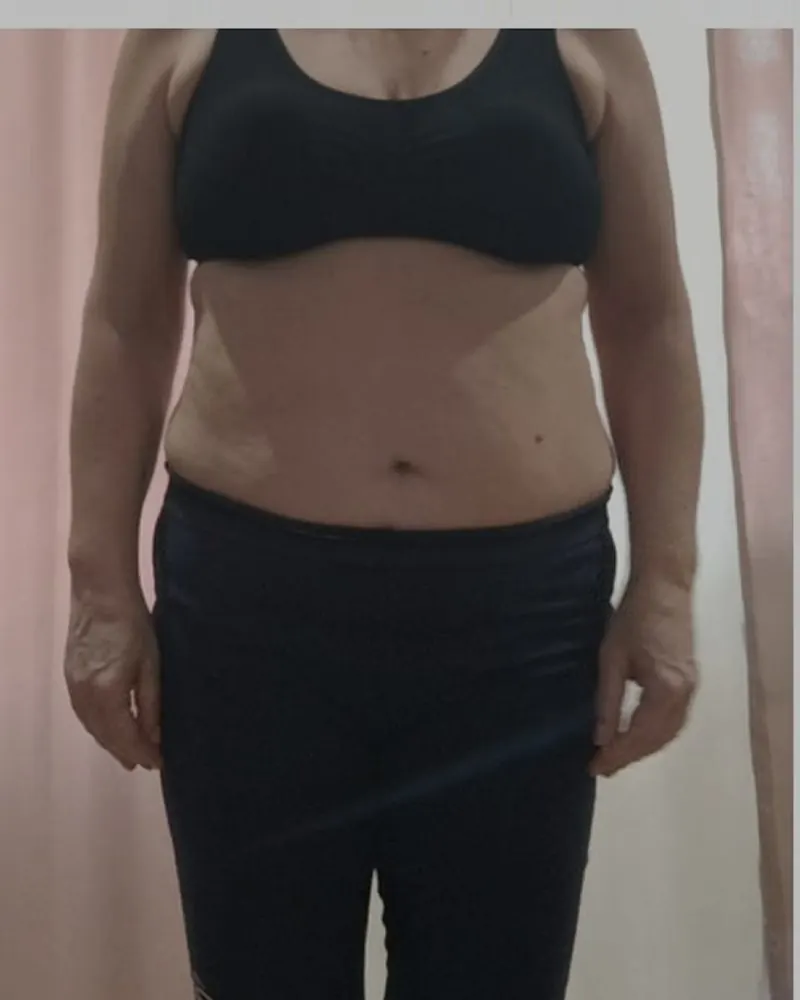
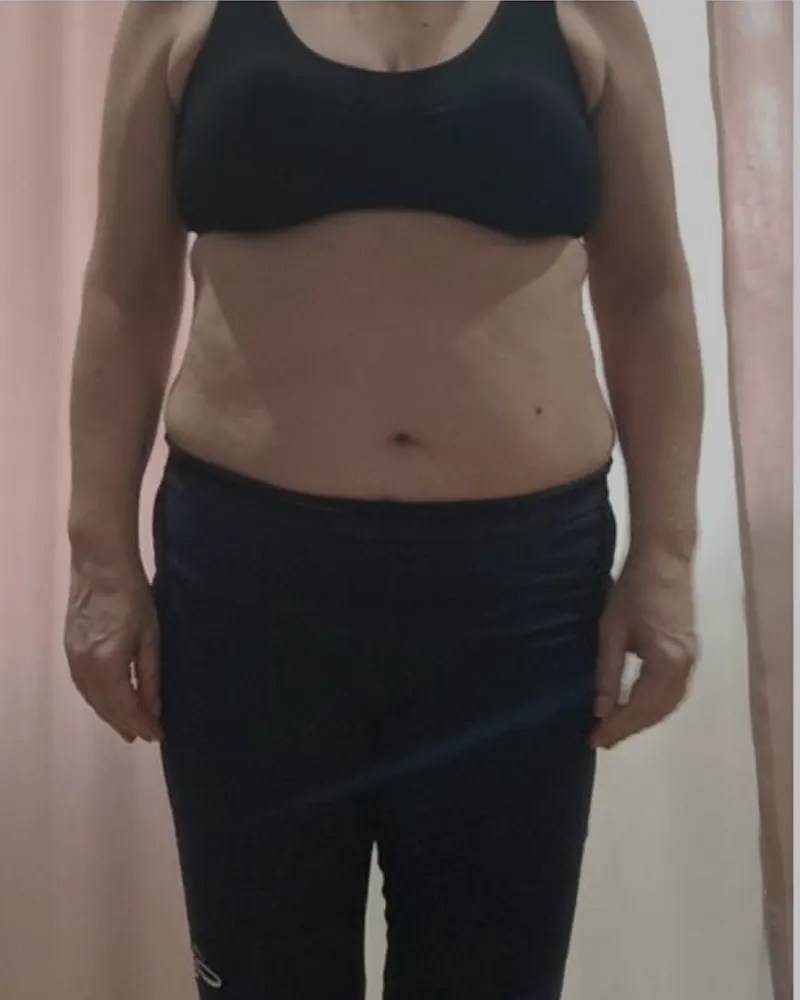
Кейсы: карточки «до | после» рядом, ракурс на кадрах, «хочу так же»
- два кадра рядом вместо переключателя; ракурс (анфас/профиль/спина) меняет оба
- в шапке карточки имя и цифра в ряд, срок отдельной строкой
- на ПК две карточки в ряд, на мобилке одна с подглядыванием следующей
- внизу карточки «хочу так же» (WhatsApp), «читать историю» только если текст обрезан
- кадры Елены (анфас, профиль) пересобраны: убрана светлая полоса сверху у «до»

Claude-Session: https://claude.ai/code/session_01PWznzMav5XfXqMcSUMKv98

diff --git a/cases.html b/cases.html
@@ -51,119 +51,95 @@
       </div>
     </div>
     <div class="cs-track" id="cs-track" role="region" aria-label="Истории клиентов, лента" tabindex="0">
-      <article class="cs-card" data-id="c" data-view="after" data-angle="front">
+      <article class="cs-card" data-id="c" data-angle="front">
         <div class="cs-ph">
-          <img class="cs-ph__b" src="assets/img/cases/c_front_b.webp" width="800" height="1000" alt="Елена, 56 лет, до" loading="lazy" decoding="async" draggable="false">
-          <img class="cs-ph__a" src="assets/img/cases/c_front_a.webp" width="800" height="1000" alt="Елена, 56 лет, после" loading="lazy" decoding="async" draggable="false">
-          <div class="cs-view" role="group" aria-label="Показать до или после">
-            <button class="cs-vbtn" type="button" data-view="before" aria-pressed="false">до</button>
-            <button class="cs-vbtn" type="button" data-view="after" aria-pressed="true">после</button>
-          </div>
+          <figure class="cs-fr"><img class="cs-img-b" src="assets/img/cases/c_front_b.webp" width="800" height="1000" alt="Елена, 56 лет, до" loading="lazy" decoding="async" draggable="false"><figcaption class="cs-tag">до</figcaption></figure>
+          <figure class="cs-fr"><img class="cs-img-a" src="assets/img/cases/c_front_a.webp" width="800" height="1000" alt="Елена, 56 лет, после" loading="lazy" decoding="async" draggable="false"><figcaption class="cs-tag cs-tag--a">после</figcaption></figure>
+          <div class="cs-angles" role="group" aria-label="Ракурс"><button class="cs-ang" type="button" data-angle="front" aria-pressed="true">анфас</button><button class="cs-ang" type="button" data-angle="side" aria-pressed="false">профиль</button><button class="cs-ang" type="button" data-angle="back" aria-pressed="false">спина</button></div>
         </div>
         <div class="cs-body">
-          <div class="cs-angles" role="group" aria-label="Ракурс"><button class="cs-ang" type="button" data-angle="front" aria-pressed="true">анфас</button><button class="cs-ang" type="button" data-angle="side" aria-pressed="false">профиль</button><button class="cs-ang" type="button" data-angle="back" aria-pressed="false">спина</button></div>
-          <div>
+          <div class="cs-top">
             <h3 class="cs-name">Елена, 56 лет</h3>
             <p class="cs-kpi display">−13,1 кг</p>
-            <p class="cs-meta">3 месяца работы · −13 см в талии</p>
           </div>
+          <p class="cs-meta">3 месяца работы · −13 см в талии</p>
           <div class="cs-text">
             <div><p class="cs-lab cs-lab--a">точка А</p><p class="cs-p is-clamp">Сахарный диабет, постоянно высокий уровень глюкозы, лишний вес и большой живот, алкоголь по выходным.</p></div>
             <div><p class="cs-lab cs-lab--b">точка Б</p><p class="cs-p is-clamp">Отказ от алкоголя, −13 см в талии, за 3 месяца удалось сбросить 13,1 кг без спорта, нормализовали уровень сахара.</p></div>
           </div>
-          <div class="cs-more"><button class="cs-tog" type="button" aria-expanded="false">читать полностью</button></div>
+        <div class="cs-more"><button class="cs-tog" type="button" aria-expanded="false">читать историю</button><a class="cs-want" href="#" data-wa="Здравствуйте, Ника! Хочу такой же результат, как у Елены.">хочу так же <svg aria-hidden="true" width="14" height="14" viewBox="0 0 20 20" fill="none" stroke="currentColor" stroke-width="1.8" stroke-linecap="round" stroke-linejoin="round"><path d="M6 14 14 6M7 6h7v7"/></svg></a></div>
         </div>
       </article>
-      <article class="cs-card" data-id="b" data-view="after" data-angle="front">
+      <article class="cs-card" data-id="b" data-angle="front">
         <div class="cs-ph">
-          <img class="cs-ph__b" src="assets/img/cases/b_front_b.webp" width="800" height="1000" alt="Екатерина, 40 лет, до" loading="lazy" decoding="async" draggable="false">
-          <img class="cs-ph__a" src="assets/img/cases/b_front_a.webp" width="800" height="1000" alt="Екатерина, 40 лет, после" loading="lazy" decoding="async" draggable="false">
-          <div class="cs-view" role="group" aria-label="Показать до или после">
-            <button class="cs-vbtn" type="button" data-view="before" aria-pressed="false">до</button>
-            <button class="cs-vbtn" type="button" data-view="after" aria-pressed="true">после</button>
-          </div>
+          <figure class="cs-fr"><img class="cs-img-b" src="assets/img/cases/b_front_b.webp" width="800" height="1000" alt="Екатерина, 40 лет, до" loading="lazy" decoding="async" draggable="false"><figcaption class="cs-tag">до</figcaption></figure>
+          <figure class="cs-fr"><img class="cs-img-a" src="assets/img/cases/b_front_a.webp" width="800" height="1000" alt="Екатерина, 40 лет, после" loading="lazy" decoding="async" draggable="false"><figcaption class="cs-tag cs-tag--a">после</figcaption></figure>
+          <div class="cs-angles" role="group" aria-label="Ракурс"><button class="cs-ang" type="button" data-angle="front" aria-pressed="true">анфас</button><button class="cs-ang" type="button" data-angle="side" aria-pressed="false">профиль</button></div>
         </div>
         <div class="cs-body">
-          <div class="cs-angles" role="group" aria-label="Ракурс"><button class="cs-ang" type="button" data-angle="front" aria-pressed="true">анфас</button><button class="cs-ang" type="button" data-angle="side" aria-pressed="false">профиль</button></div>
-          <div>
+          <div class="cs-top">
             <h3 class="cs-name">Екатерина, 40 лет</h3>
             <p class="cs-kpi display">−8,8 кг</p>
-            <p class="cs-meta">3 месяца работы · +1,7 кг мышц · −6 см в талии</p>
           </div>
+          <p class="cs-meta">3 месяца работы · +1,7 кг мышц · −6 см в талии</p>
           <div class="cs-text">
             <div><p class="cs-lab cs-lab--a">точка А</p><p class="cs-p is-clamp">Ходила годами в зал, но так и не видела заветного результата, хотела похудеть именно за счёт жира, максимально сохранить мышечную массу.</p></div>
             <div><p class="cs-lab cs-lab--b">точка Б</p><p class="cs-p is-clamp">Через 3 месяца питания и регулярных тренировок скинули 8,8 кг, набрали 1,7 кг мышц, обновили гардероб и избавились от 6 см талии.</p></div>
           </div>
-          <div class="cs-more"><button class="cs-tog" type="button" aria-expanded="false">читать полностью</button></div>
+        <div class="cs-more"><button class="cs-tog" type="button" aria-expanded="false">читать историю</button><a class="cs-want" href="#" data-wa="Здравствуйте, Ника! Хочу такой же результат, как у Екатерины.">хочу так же <svg aria-hidden="true" width="14" height="14" viewBox="0 0 20 20" fill="none" stroke="currentColor" stroke-width="1.8" stroke-linecap="round" stroke-linejoin="round"><path d="M6 14 14 6M7 6h7v7"/></svg></a></div>
         </div>
       </article>
-      <article class="cs-card" data-id="e" data-view="after" data-angle="one">
+      <article class="cs-card" data-id="e" data-angle="one">
         <div class="cs-ph">
-          <img class="cs-ph__b" src="assets/img/cases/e_one_b.webp" width="800" height="1000" alt="Дарья, 24 года, до" loading="lazy" decoding="async" draggable="false">
-          <img class="cs-ph__a" src="assets/img/cases/e_one_a.webp" width="800" height="1000" alt="Дарья, 24 года, после" loading="lazy" decoding="async" draggable="false">
-          <div class="cs-view" role="group" aria-label="Показать до или после">
-            <button class="cs-vbtn" type="button" data-view="before" aria-pressed="false">до</button>
-            <button class="cs-vbtn" type="button" data-view="after" aria-pressed="true">после</button>
-          </div>
+          <figure class="cs-fr"><img class="cs-img-b" src="assets/img/cases/e_one_b.webp" width="800" height="1000" alt="Дарья, 24 года, до" loading="lazy" decoding="async" draggable="false"><figcaption class="cs-tag">до</figcaption></figure>
+          <figure class="cs-fr"><img class="cs-img-a" src="assets/img/cases/e_one_a.webp" width="800" height="1000" alt="Дарья, 24 года, после" loading="lazy" decoding="async" draggable="false"><figcaption class="cs-tag cs-tag--a">после</figcaption></figure>
         </div>
         <div class="cs-body">
-          <div class="cs-angles is-single" role="group" aria-label="Ракурс"><button class="cs-ang" type="button" data-angle="one" aria-pressed="true">кадр</button></div>
-          <div>
+          <div class="cs-top">
             <h3 class="cs-name">Дарья, 24 года</h3>
             <p class="cs-kpi display">−8 кг</p>
-            <p class="cs-meta"></p>
           </div>
           <div class="cs-text">
             <div><p class="cs-lab cs-lab--a">точка А</p><p class="cs-p">Стеснялась носить обтягивающую одежду, мечтала похудеть.</p></div>
             <div><p class="cs-lab cs-lab--b">точка Б</p><p class="cs-p">Ушло 8 кг, и отражение в зеркале стало нравиться намного больше. Теперь любая одежда сидит идеально.</p></div>
           </div>
-          <div class="cs-more"></div>
+          <div class="cs-more"><a class="cs-want" href="#" data-wa="Здравствуйте, Ника! Хочу такой же результат, как у Дарьи.">хочу так же <svg aria-hidden="true" width="14" height="14" viewBox="0 0 20 20" fill="none" stroke="currentColor" stroke-width="1.8" stroke-linecap="round" stroke-linejoin="round"><path d="M6 14 14 6M7 6h7v7"/></svg></a></div>
         </div>
       </article>
-      <article class="cs-card" data-id="g" data-view="after" data-angle="one">
+      <article class="cs-card" data-id="g" data-angle="one">
         <div class="cs-ph">
-          <img class="cs-ph__b" src="assets/img/cases/g_one_b.webp" width="800" height="1000" alt="Валентина, 34 года, до" loading="lazy" decoding="async" draggable="false">
-          <img class="cs-ph__a" src="assets/img/cases/g_one_a.webp" width="800" height="1000" alt="Валентина, 34 года, после" loading="lazy" decoding="async" draggable="false">
-          <div class="cs-view" role="group" aria-label="Показать до или после">
-            <button class="cs-vbtn" type="button" data-view="before" aria-pressed="false">до</button>
-            <button class="cs-vbtn" type="button" data-view="after" aria-pressed="true">после</button>
-          </div>
+          <figure class="cs-fr"><img class="cs-img-b" src="assets/img/cases/g_one_b.webp" width="800" height="1000" alt="Валентина, 34 года, до" loading="lazy" decoding="async" draggable="false"><figcaption class="cs-tag">до</figcaption></figure>
+          <figure class="cs-fr"><img class="cs-img-a" src="assets/img/cases/g_one_a.webp" width="800" height="1000" alt="Валентина, 34 года, после" loading="lazy" decoding="async" draggable="false"><figcaption class="cs-tag cs-tag--a">после</figcaption></figure>
         </div>
         <div class="cs-body">
-          <div class="cs-angles is-single" role="group" aria-label="Ракурс"><button class="cs-ang" type="button" data-angle="one" aria-pressed="true">кадр</button></div>
-          <div>
+          <div class="cs-top">
             <h3 class="cs-name">Валентина, 34 года</h3>
             <p class="cs-kpi display">−5,3 кг</p>
-            <p class="cs-meta">2 месяца работы · −5 см в талии</p>
           </div>
+          <p class="cs-meta">2 месяца работы · −5 см в талии</p>
           <div class="cs-text">
             <div><p class="cs-lab cs-lab--a">точка А</p><p class="cs-p">Хотела стать более рельефной, скинуть лишние кг.</p></div>
             <div><p class="cs-lab cs-lab--b">точка Б</p><p class="cs-p">Спустя 2 месяца минус 5,3 кг, появился давно забытый пресс, талия −5 см.</p></div>
           </div>
-          <div class="cs-more"></div>
+          <div class="cs-more"><a class="cs-want" href="#" data-wa="Здравствуйте, Ника! Хочу такой же результат, как у Валентины.">хочу так же <svg aria-hidden="true" width="14" height="14" viewBox="0 0 20 20" fill="none" stroke="currentColor" stroke-width="1.8" stroke-linecap="round" stroke-linejoin="round"><path d="M6 14 14 6M7 6h7v7"/></svg></a></div>
         </div>
       </article>
-      <article class="cs-card" data-id="f" data-view="after" data-angle="one">
+      <article class="cs-card" data-id="f" data-angle="one">
         <div class="cs-ph">
-          <img class="cs-ph__b" src="assets/img/cases/f_one_b.webp" width="800" height="1000" alt="Анжелика, 49 лет, до" loading="lazy" decoding="async" draggable="false">
-          <img class="cs-ph__a" src="assets/img/cases/f_one_a.webp" width="800" height="1000" alt="Анжелика, 49 лет, после" loading="lazy" decoding="async" draggable="false">
-          <div class="cs-view" role="group" aria-label="Показать до или после">
-            <button class="cs-vbtn" type="button" data-view="before" aria-pressed="false">до</button>
-            <button class="cs-vbtn" type="button" data-view="after" aria-pressed="true">после</button>
-          </div>
+          <figure class="cs-fr"><img class="cs-img-b" src="assets/img/cases/f_one_b.webp" width="800" height="1000" alt="Анжелика, 49 лет, до" loading="lazy" decoding="async" draggable="false"><figcaption class="cs-tag">до</figcaption></figure>
+          <figure class="cs-fr"><img class="cs-img-a" src="assets/img/cases/f_one_a.webp" width="800" height="1000" alt="Анжелика, 49 лет, после" loading="lazy" decoding="async" draggable="false"><figcaption class="cs-tag cs-tag--a">после</figcaption></figure>
         </div>
         <div class="cs-body">
-          <div class="cs-angles is-single" role="group" aria-label="Ракурс"><button class="cs-ang" type="button" data-angle="one" aria-pressed="true">кадр</button></div>
-          <div>
+          <div class="cs-top">
             <h3 class="cs-name">Анжелика, 49 лет</h3>
             <p class="cs-kpi display">−5 кг</p>
-            <p class="cs-meta">полгода силовых</p>
           </div>
+          <p class="cs-meta">полгода силовых</p>
           <div class="cs-text">
             <div><p class="cs-lab cs-lab--a">точка А</p><p class="cs-p">Дряблая кожа, была уверена, что в её возрасте невозможно убрать нависший животик.</p></div>
             <div><p class="cs-lab cs-lab--b">точка Б</p><p class="cs-p">Спустя полгода силовых появился пресс и ушли несколько лишних кг.</p></div>
           </div>
-          <div class="cs-more"></div>
+          <div class="cs-more"><a class="cs-want" href="#" data-wa="Здравствуйте, Ника! Хочу такой же результат, как у Анжелики.">хочу так же <svg aria-hidden="true" width="14" height="14" viewBox="0 0 20 20" fill="none" stroke="currentColor" stroke-width="1.8" stroke-linecap="round" stroke-linejoin="round"><path d="M6 14 14 6M7 6h7v7"/></svg></a></div>
         </div>
       </article>
       <aside class="cs-card cs-cta on-dark">

diff --git a/css/pages.css b/css/pages.css
@@ -168,7 +168,7 @@
 
 @media (max-width: 767px) { .cs-h1 { font-size: calc(48 * var(--m)); } }   /* «А РЕЗУЛЬТАТАМИ» не рвётся на 390 */
 
-/* ---------- Кейсы: лента карточек с переключателем «до / после» ---------- */
+/* ---------- Кейсы: лента карточек «до | после» ---------- */
 .cs-head { display: flex; align-items: flex-end; justify-content: space-between; gap: var(--sp-4); }
 .cs-title { font-size: var(--fs-pg-h2); padding-top: .12em; }
 .cs-arrows { display: flex; gap: var(--sp-2); }
@@ -185,57 +185,55 @@
   padding-inline: var(--cs-pad); scroll-padding-left: var(--cs-pad);
 }
 .cs-track::-webkit-scrollbar { display: none; }
-.cs-card { flex: 0 0 max(min(82%, 340px), 30%); scroll-snap-align: start; min-width: 0; display: flex; flex-direction: column; background: var(--c-paper); border-radius: var(--r-card); overflow: hidden; }
+.cs-card { flex: 0 0 min(88%, 400px); scroll-snap-align: start; min-width: 0; display: flex; flex-direction: column; background: var(--c-paper); border-radius: var(--r-card); overflow: hidden; }
+@media (min-width: 768px)  { .cs-card { flex-basis: calc((100% - var(--gap)) / 2); } }
 
-.cs-ph { position: relative; aspect-ratio: 4 / 5; overflow: hidden; background: #e6e6e6; user-select: none; -webkit-user-select: none; }
-.cs-ph img { position: absolute; inset: 0; width: 100%; height: 100%; object-fit: cover; object-position: 50% 12%; }
-.cs-ph__a { transition: opacity var(--dur-2) var(--ease-out); }
-.cs-card[data-view="before"] .cs-ph__a { opacity: 0; }
-.cs-view { position: absolute; left: 50%; bottom: var(--sp-3); transform: translateX(-50%); display: flex; gap: 2px; height: 44px; padding: 3px; border-radius: 999px; background: rgba(255, 255, 255, .94); box-shadow: 0 2px 12px rgba(14, 14, 14, .18); }
-.cs-vbtn { min-width: 76px; height: 38px; padding: 0 18px; border-radius: 999px; font-size: 14px; line-height: 1; font-weight: 450; transition: background-color var(--dur-1), color var(--dur-1); -webkit-tap-highlight-color: transparent; }
-.cs-vbtn[data-view="before"][aria-pressed="true"] { background: var(--c-ink); color: var(--c-white); }
-.cs-vbtn[data-view="after"][aria-pressed="true"] { background: var(--c-red); color: var(--c-white); }
+/* Два кадра рядом: «до» слева, «после» справа. Ракурс переключает оба сразу */
+.cs-ph { position: relative; display: grid; grid-template-columns: 1fr 1fr; gap: 2px; background: var(--c-white); user-select: none; -webkit-user-select: none; }
+.cs-fr { position: relative; margin: 0; aspect-ratio: 4 / 5; overflow: hidden; background: #e6e6e6; }
+.cs-fr img { position: absolute; inset: 0; width: 100%; height: 100%; object-fit: cover; object-position: 50% 12%; }
+.cs-tag { position: absolute; left: 10px; top: 10px; height: 26px; padding: 0 11px; display: inline-flex; align-items: center; border-radius: 999px; background: rgba(14, 14, 14, .62); -webkit-backdrop-filter: blur(8px); backdrop-filter: blur(8px); color: var(--c-white); font-size: 12px; line-height: 1; font-weight: 450; }
+.cs-tag--a { background: var(--c-red); }
+.cs-angles { position: absolute; left: 50%; bottom: 10px; transform: translateX(-50%); display: flex; gap: 2px; height: 40px; padding: 3px; border-radius: 999px; background: rgba(14, 14, 14, .62); -webkit-backdrop-filter: blur(8px); backdrop-filter: blur(8px); }
+.cs-ang { height: 34px; padding: 0 12px; border-radius: 999px; font-size: 13px; color: var(--c-white); line-height: 1; font-weight: 450; white-space: nowrap; transition: background-color var(--dur-1), color var(--dur-1); -webkit-tap-highlight-color: transparent; }
+.cs-ang[aria-pressed="true"] { background: var(--c-white); color: var(--c-ink); }
 
-.cs-body { display: flex; flex-direction: column; gap: var(--sp-3); flex: 1 1 auto; padding: var(--sp-4) var(--sp-5) var(--sp-3); }
-.cs-angles { display: flex; height: 44px; padding: 2px; gap: 2px; border-radius: 999px; background: var(--c-white); }
-.cs-angles.is-single { visibility: hidden; }   /* место сохраняем: имя и цифра стоят на одной линии у всех карточек */
-.cs-ang { flex: 1 1 0; min-width: 0; height: 40px; padding: 0 10px; border-radius: 999px; font-size: 14px; line-height: 1; font-weight: 450; white-space: nowrap; transition: background-color var(--dur-1), color var(--dur-1); -webkit-tap-highlight-color: transparent; }
-.cs-ang[aria-pressed="true"] { background: var(--c-ink); color: var(--c-white); }
-.cs-name { font-size: var(--fs-card-t); font-weight: 450; line-height: 1.15; }
-.cs-kpi { margin-top: 10px; padding-top: .12em; font-size: max(44px, calc(64 * var(--s))); color: var(--c-red); white-space: nowrap; }
-.cs-meta { margin-top: 10px; min-height: 2.7em; font-size: 14px; line-height: 1.35; font-weight: 450; color: var(--c-muted); }   /* две строки зарезервированы: блоки А/Б стоят на одной линии у всех карточек */
+.cs-body { display: flex; flex-direction: column; gap: var(--sp-3); flex: 1 1 auto; padding: var(--sp-4) var(--sp-5) var(--sp-2); }
+.cs-top { display: flex; justify-content: space-between; align-items: center; gap: var(--sp-3); }
+.cs-top + .cs-meta { margin-top: calc(-1 * var(--sp-1)); }
+.cs-name { font-size: max(17px, calc(20 * var(--s))); font-weight: 450; line-height: 1.15; }
+.cs-meta { font-size: 13px; line-height: 1.35; font-weight: 450; color: var(--c-muted); }
+.cs-kpi { flex: none; padding-top: .12em; font-size: max(40px, calc(52 * var(--s))); color: var(--c-red); white-space: nowrap; }
 .cs-text { display: flex; flex-direction: column; gap: var(--sp-3); padding-top: var(--sp-3); border-top: 1px solid rgba(14, 14, 14, .12); }
 .cs-lab { display: flex; align-items: center; gap: var(--sp-2); font-size: 13px; line-height: 1.3; font-weight: 450; color: var(--c-muted); }
 .cs-lab::before { content: ""; width: 8px; height: 8px; border-radius: 50%; }
 .cs-lab--a::before { border: 1.5px solid var(--c-ink); }
 .cs-lab--b::before { background: var(--c-red); }
-.cs-p { margin-top: var(--sp-1); font-size: 14px; line-height: 1.35; min-height: 57px; }
+.cs-p { margin-top: var(--sp-1); font-size: 14px; line-height: 1.35; }
 .cs-p.is-clamp { display: -webkit-box; -webkit-line-clamp: 3; -webkit-box-orient: vertical; overflow: hidden; }
 .cs-card.is-open .cs-p.is-clamp { display: block; }
-.cs-more { min-height: 44px; margin-top: auto; display: flex; align-items: center; }
+.cs-more { margin-top: auto; display: flex; align-items: center; justify-content: space-between; gap: var(--sp-3); }
 .cs-tog { min-height: 44px; font-size: 14px; font-weight: 450; color: var(--c-red); }
-@media (hover: hover) { .cs-tog:hover, .cs-ig:hover { opacity: .65; } .cs-ang[aria-pressed="false"]:hover { background: var(--c-paper); } }
+.cs-want { display: inline-flex; align-items: center; gap: 6px; min-height: 44px; margin-left: auto; font-size: 14px; font-weight: 450; color: var(--c-ink); transition: color var(--dur-1); }
+.cs-want svg { color: var(--c-red); }
+@media (hover: hover) { .cs-want:hover { color: var(--c-red); } .cs-tog:hover, .cs-ig:hover { opacity: .65; } .cs-ang[aria-pressed="false"]:hover { background: rgba(255, 255, 255, .18); } }
 
 .cs-cta { justify-content: space-between; gap: var(--sp-6); padding: var(--sp-5); background: var(--c-ink); }
 .cs-cta .display { font-size: var(--fs-pg-h2); line-height: .85; padding-top: .12em; }
 .cs-cta p { margin-top: var(--sp-3); color: var(--c-on-dark-2); font-size: var(--fs-small); line-height: 1.35; }
 
-/* ПК: героя и карточки компактнее, чтобы фото и текст помещались в окно 1440×900 и 1210×760 */
 @media (min-width: 768px) {
   .cs-hero { padding-block: calc(32 * var(--s)) calc(52 * var(--s)); }
   .cs-h1 { font-size: calc(96 * var(--s)); }
-  .cs-kpi { font-size: max(44px, calc(52 * var(--s))); }
 }
-@media (min-width: 1024px) { .cs-card { flex-basis: calc((100% - 2 * var(--gap)) / 3); } }
-@media (min-width: 1100px) { .cs-card { flex-basis: calc((100% - 3 * var(--gap)) / 4); } }
-
 .cs-prog { display: none; margin-top: var(--sp-5); height: 4px; border-radius: 2px; background: rgba(14, 14, 14, .12); overflow: hidden; }
 .cs-prog__thumb { height: 100%; border-radius: 2px; background: var(--c-ink); }
 @media (max-width: 767px) { .cs-prog { display: block; } }
 .cs-foot { margin-top: var(--sp-6); display: flex; flex-direction: column; gap: var(--sp-3); }
 .cs-ig { display: inline-flex; align-items: center; gap: var(--sp-2); align-self: flex-start; min-height: 44px; font-size: var(--fs-lead); font-weight: 450; border-bottom: 1px solid var(--c-red); transition: opacity var(--dur-1); }
 .cs-note { max-width: 52em; font-size: 13px; line-height: 1.35; color: var(--c-muted); }
-@media (prefers-reduced-motion: reduce) { .cs-ph__a, .cs-vbtn, .cs-ang { transition: none; } }
+@media (max-width: 767px) { .cs-name { font-size: 17px; } .cs-kpi { font-size: 38px; } .cs-p.is-clamp { -webkit-line-clamp: 2; } }
+@media (prefers-reduced-motion: reduce) { .cs-ang { transition: none; } }
 
 /* ---------- Страница материала ---------- */
 .mat { display: grid; gap: var(--sp-8); grid-template-columns: minmax(0, 1fr); align-items: center; }

diff --git a/js/pages.js b/js/pages.js
@@ -85,29 +85,27 @@
     if (lk) lk.hidden = ty.dataset.ty !== 'pay';
   }
 
-  /* ---------- Кейсы: лента, «до / после», ракурс, «читать полностью» ---------- */
+  /* ---------- Кейсы: лента, «до | после», ракурс, «читать полностью» ---------- */
   const track = $('#cs-track');
   if (track) {
-    const setView = (card) => {
-      const before = card.dataset.view === 'before';
-      $('.cs-ph__b', card).setAttribute('aria-hidden', String(!before));
-      $('.cs-ph__a', card).setAttribute('aria-hidden', String(before));
-      $$('.cs-vbtn', card).forEach(b => b.setAttribute('aria-pressed', String((b.dataset.view === 'before') === before)));
-    };
     $$('.cs-card[data-id]', track).forEach(card => {
-      setView(card);
-      $$('.cs-vbtn', card).forEach(b => b.addEventListener('click', () => { card.dataset.view = b.dataset.view; setView(card); }));
       $$('.cs-ang', card).forEach(b => b.addEventListener('click', () => {
         card.dataset.angle = b.dataset.angle;
         $$('.cs-ang', card).forEach(x => x.setAttribute('aria-pressed', String(x === b)));
-        $('.cs-ph__b', card).src = 'assets/img/cases/' + card.dataset.id + '_' + b.dataset.angle + '_b.webp';
-        $('.cs-ph__a', card).src = 'assets/img/cases/' + card.dataset.id + '_' + b.dataset.angle + '_a.webp';
+        const base = 'assets/img/cases/' + card.dataset.id + '_' + b.dataset.angle;
+        $('.cs-img-b', card).src = base + '_b.webp';
+        $('.cs-img-a', card).src = base + '_a.webp';
       }));
       const tog = $('.cs-tog', card);
+      if (tog) {
+        // кнопка нужна только там, где текст реально обрезан (на широкой карточке он может влезть целиком)
+        const fit = () => { tog.hidden = !card.classList.contains('is-open') && !$$('.cs-p.is-clamp', card).some(p => p.scrollHeight > p.clientHeight + 1); };
+        fit(); window.addEventListener('resize', fit); if (document.fonts && document.fonts.ready) document.fonts.ready.then(fit);
+      }
       if (tog) tog.addEventListener('click', () => {
         const open = card.classList.toggle('is-open');
         tog.setAttribute('aria-expanded', String(open));
-        tog.textContent = open ? 'свернуть' : 'читать полностью';
+        tog.textContent = open ? 'свернуть' : 'читать историю';
       });
     });
     const prev = $('.cs-arrow[data-dir="-1"]'), next = $('.cs-arrow[data-dir="1"]'), thumb = $('.cs-prog__thumb');
